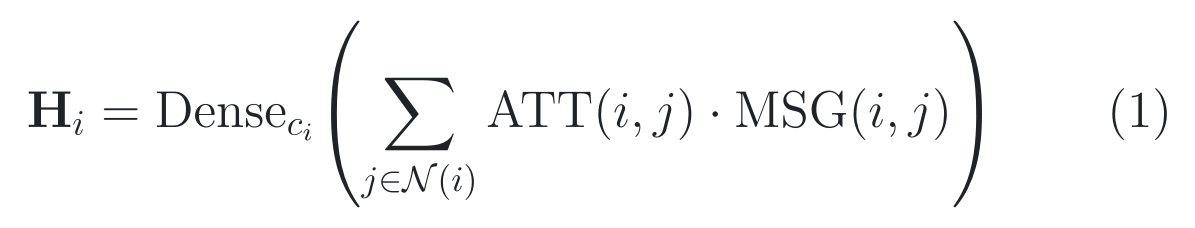
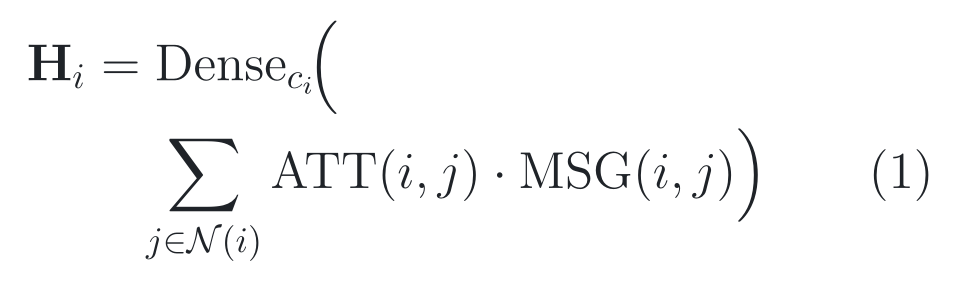
fix: wrap legacy formulas for iPad (#26)

diff --git a/assets/notes/2026-08-02-v2x-vit/formulas/source.tex b/assets/notes/2026-08-02-v2x-vit/formulas/source.tex
@@ -3,12 +3,15 @@
 % The main note records exact PDF pages and fixed-source provenance.
 
 % BEGIN eq-01-hmsa-aggregation
+\begin{aligned}
 \mathbf H_i
-=\operatorname{Dense}_{c_i}\!\left(
+&=\operatorname{Dense}_{c_i}\!\Bigl(\\
+&\quad
 \sum_{j\in\mathcal N(i)}
 \operatorname{ATT}(i,j)\cdot\operatorname{MSG}(i,j)
-\right)
+\Bigr)
 \qquad\text{(1)}
+\end{aligned}
 % END eq-01-hmsa-aggregation
 
 % BEGIN eq-03-relation-aware-attention

diff --git a/assets/notes/2026-08-04-unipad/formulas/source.tex b/assets/notes/2026-08-04-unipad/formulas/source.tex
@@ -14,12 +14,13 @@
 % END eq-01-view-transform
 
 % BEGIN eq-02-volume-rendering
+\begin{aligned}
 \hat{Y}^{\mathrm{RGB}}_i
-={\textstyle\sum}_{j=1}^{D}w_jc_j,
-\qquad
+&={\textstyle\sum}_{j=1}^{D}w_jc_j,\\
 \hat{Y}^{\mathrm{depth}}_i
-={\textstyle\sum}_{j=1}^{D}w_jt_j.
+&={\textstyle\sum}_{j=1}^{D}w_jt_j.
 \qquad\text{(2)}
+\end{aligned}
 % END eq-02-volume-rendering
 
 % BEGIN eq-03-opacity

diff --git a/notes/2026/2026-08-04-unipad.md b/notes/2026/2026-08-04-unipad.md
@@ -207,9 +207,9 @@
 
 **原文公式：** 论文 Eq. (2)，PDF p. 4 / proceedings p. 15241。
 
-<p align="center"><picture><source media="(prefers-color-scheme: dark)" srcset="../../assets/notes/2026-08-04-unipad/formulas/eq-02-volume-rendering-dark.png"><img src="../../assets/notes/2026-08-04-unipad/formulas/eq-02-volume-rendering-light.png" alt="公式：用射线上各采样点的权重分别加权颜色与深度" width="586" height="56"></picture></p>
+<p align="center"><picture><source media="(prefers-color-scheme: dark)" srcset="../../assets/notes/2026-08-04-unipad/formulas/eq-02-volume-rendering-dark.png"><img src="../../assets/notes/2026-08-04-unipad/formulas/eq-02-volume-rendering-light.png" alt="公式：用射线上各采样点的权重分别加权颜色与深度" width="321" height="100"></picture></p>
 
-> **公式来源：** Yang et al., CVPR 2024, Eq. (2)，PDF p. 4 / proceedings p. 15241。[官方 PDF](https://openaccess.thecvf.com/content/CVPR2024/papers/Yang_UniPAD_A_Universal_Pre-training_Paradigm_for_Autonomous_Driving_CVPR_2024_paper.pdf)。公式图按原符号重排，原式版权归原作者及其他权利人；可复制 TeX 见 [source.tex](../../assets/notes/2026-08-04-unipad/formulas/source.tex#L16-L23)。
+> **公式来源：** Yang et al., CVPR 2024, Eq. (2)，PDF p. 4 / proceedings p. 15241。[官方 PDF](https://openaccess.thecvf.com/content/CVPR2024/papers/Yang_UniPAD_A_Universal_Pre-training_Paradigm_for_Autonomous_Driving_CVPR_2024_paper.pdf)。公式图按原符号重排，原式版权归原作者及其他权利人；可复制 TeX 见 [source.tex](../../assets/notes/2026-08-04-unipad/formulas/source.tex#L16-L24)。
 
 **先建立画面：** **[笔记解释]** 想象沿像素射线摆了一串半透明彩色玻璃片：每片既有颜色也离相机不同远，最终像素是这些玻璃片按“真正看得见多少”混色并加权测距。
 
@@ -237,7 +237,7 @@
 
 <p align="center"><picture><source media="(prefers-color-scheme: dark)" srcset="../../assets/notes/2026-08-04-unipad/formulas/eq-03-opacity-dark.png"><img src="../../assets/notes/2026-08-04-unipad/formulas/eq-03-opacity-light.png" alt="公式：相邻有符号距离经过逻辑函数转成不透明度，再累乘透射率得到渲染权重" width="431" height="126"></picture></p>
 
-> **公式来源：** Yang et al., CVPR 2024, Eq. (3)，PDF p. 4 / proceedings p. 15241。[官方 PDF](https://openaccess.thecvf.com/content/CVPR2024/papers/Yang_UniPAD_A_Universal_Pre-training_Paradigm_for_Autonomous_Driving_CVPR_2024_paper.pdf)。公式图按原符号重排，原式版权归原作者及其他权利人；可复制 TeX 见 [source.tex](../../assets/notes/2026-08-04-unipad/formulas/source.tex#L25-L35)。
+> **公式来源：** Yang et al., CVPR 2024, Eq. (3)，PDF p. 4 / proceedings p. 15241。[官方 PDF](https://openaccess.thecvf.com/content/CVPR2024/papers/Yang_UniPAD_A_Universal_Pre-training_Paradigm_for_Autonomous_Driving_CVPR_2024_paper.pdf)。公式图按原符号重排，原式版权归原作者及其他权利人；可复制 TeX 见 [source.tex](../../assets/notes/2026-08-04-unipad/formulas/source.tex#L26-L36)。
 
 **先建立画面：** **[笔记解释]** 沿射线走路时，SDF 像路牌告诉你离物体表面还有多远；相邻路牌跨过表面时，系统把那一小段变成“有多像挡住视线的玻璃片”。
 
@@ -265,7 +265,7 @@
 
 <p align="center"><picture><source media="(prefers-color-scheme: dark)" srcset="../../assets/notes/2026-08-04-unipad/formulas/eq-04-pretraining-loss-dark.png"><img src="../../assets/notes/2026-08-04-unipad/formulas/eq-04-pretraining-loss-light.png" alt="公式：颜色绝对误差与只在有效深度射线上的深度绝对误差加权求和" width="502" height="134"></picture></p>
 
-> **公式来源：** Yang et al., CVPR 2024, Eq. (4)，PDF p. 5 / proceedings p. 15242。[官方 PDF](https://openaccess.thecvf.com/content/CVPR2024/papers/Yang_UniPAD_A_Universal_Pre-training_Paradigm_for_Autonomous_Driving_CVPR_2024_paper.pdf)。公式图按原符号重排，原式版权归原作者及其他权利人；可复制 TeX 见 [source.tex](../../assets/notes/2026-08-04-unipad/formulas/source.tex#L37-L49)。
+> **公式来源：** Yang et al., CVPR 2024, Eq. (4)，PDF p. 5 / proceedings p. 15242。[官方 PDF](https://openaccess.thecvf.com/content/CVPR2024/papers/Yang_UniPAD_A_Universal_Pre-training_Paradigm_for_Autonomous_Driving_CVPR_2024_paper.pdf)。公式图按原符号重排，原式版权归原作者及其他权利人；可复制 TeX 见 [source.tex](../../assets/notes/2026-08-04-unipad/formulas/source.tex#L38-L50)。
 
 **先建立画面：** **[笔记解释]** 把预训练看成批改两份作业：每条射线都有“颜色题”，只有 LiDAR 真正量到深度的射线才有“距离题”；两份平均错多少再按权重合成总分。
 

diff --git a/notes/2026/2026-08-02-v2x-vit.md b/notes/2026/2026-08-02-v2x-vit.md
@@ -307,11 +307,11 @@ AP@0.7 分别从 0.639/0.558/0.496/0.458 提到 0.650/0.572/0.514/0.478，绝对
 
 **原文公式：** 论文 Eq. (1)，PDF p. 7 / proceedings p. 113。
 
-<p align="center"><picture><source media="(prefers-color-scheme: dark)" srcset="../../assets/notes/2026-08-02-v2x-vit/formulas/eq-01-hmsa-aggregation-dark.png"><img src="../../assets/notes/2026-08-02-v2x-vit/formulas/eq-01-hmsa-aggregation-light.png" alt="公式：目标节点在邻居集合中按注意力权重汇总类型化消息，再做目标类型专属投影" width="598" height="114"></picture></p>
+<p align="center"><picture><source media="(prefers-color-scheme: dark)" srcset="../../assets/notes/2026-08-02-v2x-vit/formulas/eq-01-hmsa-aggregation-dark.png"><img src="../../assets/notes/2026-08-02-v2x-vit/formulas/eq-01-hmsa-aggregation-light.png" alt="公式：目标节点在邻居集合中按注意力权重汇总类型化消息，再做目标类型专属投影" width="478" height="140"></picture></p>
 
 > **公式来源：** Xu et al., ECCV 2022, Eq. (1)，PDF p. 7；本图按原符号重排。
 > [官方 PDF](https://www.ecva.net/papers/eccv_2022/papers_ECCV/papers/136990106.pdf) ·
-> [可复制 TeX](../../assets/notes/2026-08-02-v2x-vit/formulas/source.tex#L5-L12)。
+> [可复制 TeX](../../assets/notes/2026-08-02-v2x-vit/formulas/source.tex#L5-L15)。
 
 **先建立画面：** **[笔记解释]** 把 ego、邻车和路侧单元想成围着同一张 BEV 方格地图开会：每位邻居递来一张消息卡，注意力决定这张卡占多少票，目标节点再按自己的类型汇总会议纪要。
 
@@ -353,7 +353,7 @@ AP@0.7 分别从 0.639/0.558/0.496/0.458 提到 0.650/0.572/0.514/0.478，绝对
 
 > **公式来源：** Xu et al., ECCV 2022, Eq. (3)，PDF p. 7；本图按原符号重排。
 > [官方 PDF](https://www.ecva.net/papers/eccv_2022/papers_ECCV/papers/136990106.pdf) ·
-> [可复制 TeX](../../assets/notes/2026-08-02-v2x-vit/formulas/source.tex#L14-L24)。
+> [可复制 TeX](../../assets/notes/2026-08-02-v2x-vit/formulas/source.tex#L17-L27)。
 
 **先建立画面：** **[笔记解释]** 同一句“这里有车”，从路侧发给车辆与从车辆发给路侧可能含义不同；关系矩阵像按“谁对谁说”更换的翻译词典，然后 key 与 query 才比较是否匹配。
 
@@ -394,7 +394,7 @@ AP@0.7 分别从 0.639/0.558/0.496/0.458 提到 0.650/0.572/0.514/0.478，绝对
 
 > **公式来源：** Xu et al., ECCV 2022, Eq. (8)，PDF p. 9；本图按原符号重排。
 > [官方 PDF](https://www.ecva.net/papers/eccv_2022/papers_ECCV/papers/136990106.pdf) ·
-> [可复制 TeX](../../assets/notes/2026-08-02-v2x-vit/formulas/source.tex#L26-L36)。
+> [可复制 TeX](../../assets/notes/2026-08-02-v2x-vit/formulas/source.tex#L29-L39)。
 
 **先建立画面：** **[笔记解释]** 延迟不是只贴一个“旧”标签，而是像把同一时间差送进一排快慢不同的钟摆；各通道产生不同相位，后续网络据此辨认证据有多旧。
 
@@ -432,7 +432,7 @@ AP@0.7 分别从 0.639/0.558/0.496/0.458 提到 0.650/0.572/0.514/0.478，绝对
 
 > **公式来源：** Xu et al., ECCV 2022, Eq. (9)–(10)，PDF p. 9；本图按原符号重排。
 > [官方 PDF](https://www.ecva.net/papers/eccv_2022/papers_ECCV/papers/136990106.pdf) ·
-> [可复制 TeX](../../assets/notes/2026-08-02-v2x-vit/formulas/source.tex#L38-L45)。
+> [可复制 TeX](../../assets/notes/2026-08-02-v2x-vit/formulas/source.tex#L41-L48)。
 
 **先建立画面：** **[笔记解释]** 上一式把延迟写成一张 256 维“时间身份证”，这里先用线性层翻译成特征语言，再把同一身份证贴到该节点整张 BEV 地图的每个格上。
 
